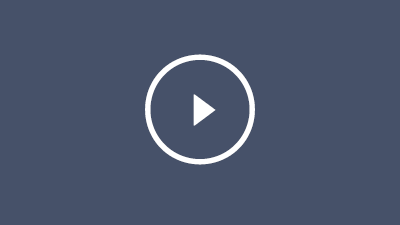
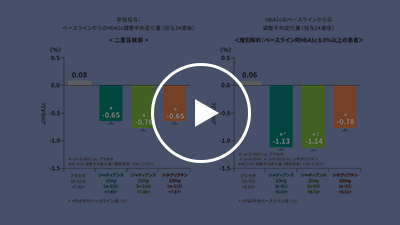
original

diff --git a/jardiance/04/index.html b/jardiance/04/index.html
@@ -4,7 +4,7 @@
 	<meta charset="UTF-8">
 	<meta http-equiv="X-UA-Compatible" content="IE=edge">
 	
-	<title>ポイント整理！ ジャディアンスの豊富なエビデンス#02</title>
+	<title>ジャディアンス</title>
 	<meta name="description" content="">
 	<meta name="keywords" content="">
 	
@@ -27,18 +27,14 @@
 	<header id="header">
 		<div id="mainVisual">
 			<h1><span>ポイント整理！</span><br>
-			ジャディアンスの豊富なエビデンス#02</h1>
-			<p class="read">糖尿病治療の目的は、合併症の発症・増悪を防ぎ、<br>
-			健康人と同様なQOLおよび寿命をもたらすことにあります。<br>
-			そのためには血糖、血圧、脂質、肥満などのリスク因子を<br>
-			包括的かつ早期から管理することが必要です。(※)<br>
-			しかし、2型糖尿病における厳格な血糖管理が心血管疾患や<br>
-			総死亡のリスクを軽減するかどうかは明確な結論が出ていませんでした。<br>
-			そんな中、2015年9月17日にジャディアンスが血糖降下薬で初となる<br>
-			心血管イベントリスクの減少を示したEMPA-REG OUTCOME&reg;が発表されました。<br>
-			今回は、これまでの血糖介入試験をを振り返りながら、<br>
-			EMPA-REG OUTCOME&reg;試験の概要をご紹介します。<br>
-			<span class="ftSS">※日本糖尿病学会(編)：科学的根拠に基づく糖尿病診療ガイドライン2013,p.21,151</span></p>
+			ジャディアンスの豊富なエビデンス</h1>
+			<p class="read">ジャディアンスは、優れたHbA1c低下作用をはじめ、<br>
+			数々のエビデンスが報告されています。<br>
+			2015年9月17日、欧州糖尿病学会でこのジャディアンスの新しいエビデンス、<br>
+			EMPA-REG OUTCOME&reg;試験が発表され、同時にNEJMで文献化されました。<br>
+			今回は、血糖降下薬で初となる心血管イベントリスクの<br>
+			減少を示したEMPA-REG OUTCOME&reg;試験の概要とともに、<br>
+			ジャディアンスの主なエビデンスをご紹介します。</p>
 			<nav id="gNav">
 				<div class="logo">
 					<ul><!--
@@ -48,10 +44,11 @@
 					--></ul>
 				</div>
 				<ul><!--
-					--><li class="sec01"><a href="#sec01">HbA1cと総死亡・心血管疾患による死亡との関連</a></li><!--
-					--><li class="sec02"><a href="#sec02">脳卒中や総死亡の抑制について</a></li><!--
-					--><li class="sec03"><a href="#sec03">主要評価項目（3P-MACE）</a></li><!--
-					--><li class="sec04"><a href="#sec04">優れたHbA1c低下作用</a></li><!--
+					--><li class="sec01"><a href="#sec01">単独投与におけるHbA1c低下作用</a></li><!--
+					--><li class="sec02"><a href="#sec02">EMPA-REG OUTCOME<sup>&reg;</sup></a></li><!--
+					--><li class="sec03"><a href="#sec03">経口血糖降下薬と併用時のHbA1c低下作用</a></li><!--
+					--><li class="sec04"><a href="#sec04">24時間にわたる高血糖状態の改善</a></li><!--
+					--><li class="sec05"><a href="#sec05">長期にわたるHbA1c低下作用</a></li><!--
 				--></ul>
 			</nav>
 		</div>
@@ -66,11 +63,12 @@
 		<!--  sec01  -->
 		<section id="sec01">
 			<p class="mv"><a href="movie01.html" class="colorbox-W640-H414-iframe" target="_blank"><img src="img/mv_thm01.png" alt=""></a><br>
-			◯◯分◯◯秒</p>
+			1分41秒</p>
 			<div class="blockO">
-				<h2 class="ttlA">HbA1cが上昇するにつれ、心血管疾患や総死亡は増加することが分かっています</h2>
-				<h3 class="sub">HbA1cと総死亡・心血管疾患による死亡との関連</h3>
-				<p>NIPPON DATA90参加者のうち、15年間のフォローアップ期間中の総死亡および心血管死をHbA1cで層別化して解析したところ、HbA1cと心血管死の多変量調整ハザード比は正の相関を示し、HbA1cが1％増加するごとに心血管死のハザード比は1.32（95％CI：1.12-1.56）と有意に増加しました。</p>
+				<h2 class="ttlA">「1日1回の経口投与により、<br>
+				優れたHbA1c低下作用を示すジャディアンス」</h2>
+				<h3 class="sub">単独投与におけるHbA1c低下作用</h3>
+				<p>現在、2型糖尿病治療には種々の血糖降下薬が用いられていますが、その中で最も新しい作用機序を有する薬剤がSGLT2阻害薬です。ジャディアンスは、そうした新しい薬剤ながら豊富なエビデンスを有し、さまざまな有効性・安全性のデータが得られています。</p>
 			</div>
 		</section>
 		<!-- //sec01 -->
@@ -78,12 +76,16 @@
 		<!--  sec02  -->
 		<section id="sec02">
 			<p class="mv">
+			<span class="icon"><img src="img/icon.png" alt=""></span>
 			<a href="movie02.html" class="colorbox-W640-H414-iframe" target="_blank"><img src="img/mv_thm02.png" alt=""></a><br>
-			◯◯分◯◯秒</p>
+			1分22秒</p>
 			<div class="blockO">
-				<h2 class="ttlA">HbA1cを下げれば心血管疾患や総死亡を減らせるのでしょうか</h2>
-				<h3 class="sub">ACCORD試験では、心血管イベント発生リスクを有する2型糖尿病患者において、厳格な血糖コントロールの大血管障害抑制効果は認められませんでした</h3>
-				<p>ACCORD試験を含む５つの大規模RCTに参加した<br>33,040例のデータを用いてメタ解析した結果、<br>強化療法は通常治療に比して冠動脈疾患を抑制しましたが、<br>脳卒中や総死亡の抑制については有意差がありませんでした。(※)<br><span class="ftS">※Ray KK et al.:Lancet.2009;373(9677):1765-72.</span></p>
+				<h2 class="ttlA">「2015年9月17日、ジャディアンスに<br>
+				血糖降下薬として初となる、<br>
+				心血管イベント減少のエビデンスが加わった」</h2>
+				<h3 class="sub">EMPA-REG OUTCOME®</h3>
+				<p>2015年9月17日、ジャディアンスに新しいエビデンス「EMPA-REG<br>
+				OUTCOME®試験」が加わりました。本試験では心血管リスクの高い2型糖尿病患者を対象に、主要複合心血管イベントの初回発現までの期間を指標として標準治療と比較した時のジャディアンスの長期心血管安全性が検討されました。</p>
 			</div>
 		</section>
 		<!-- //sec02 -->
@@ -91,11 +93,12 @@
 		<!--  sec03  -->
 		<section id="sec03">
 			<p class="mv"><a href="movie03.html" class="colorbox-W640-H414-iframe" target="_blank"><img src="img/mv_thm03.png" alt=""></a><br>
-			◯◯分◯◯秒</p>
+			1分50秒</p>
 			<div class="blockO">
-				<h2 class="ttlA">ベースラインですでに標準治療を受けていた患者にジャディアンスを投与したところ、<br>3P-MACEが14％減少</h2>
-				<h3 class="sub">主要評価項目（3P-MACE）</h3>
-				<p>ジャディアンスは心血管アウトカムに特化した試験において、心血管リスクを減少させた最初の血糖降下薬であることが確認されたのです。</p>
+				<h2 class="ttlA">「標準治療に上乗せした際の<br>
+				ジャディアンス有効性とは？」</h2>
+				<h3 class="sub">経口血糖降下薬と併用時のHbA1c低下作用</h3>
+				<p>標準治療に用いられる種々の経口血糖降下薬との併用に関しても、ジャディアンスは国内第Ⅲ相併用療法長期投与試験で検討されています。既存の経口血糖降下薬とジャディアンス10mgを併用した結果、52週後のベースラインからのHbA1c調整平均変化量は－0.81～－1.00％でした。</p>
 			</div>
 		</section>
 		<!-- //sec03 -->
@@ -103,20 +106,37 @@
 		<!--  sec04  -->
 		<section id="sec04">
 			<p class="mv"><a href="movie04.html" class="colorbox-W640-H414-iframe" target="_blank"><img src="img/mv_thm04.png" alt=""></a><br>
-			◯◯分◯◯秒</p>
+			1分18秒</p>
 			<div class="blockO">
-				<h2 class="ttlA">ジャディアンスは標準治療へ上乗せした場合の有効性・安全性が検討されている</h2>
-				<h3 class="sub">ジャディアンスは1日1回の経口投与により、<br>優れたHbA1c低下作用を示します</h3>
-				<p>EMPA-REG OUTCOME&reg;試験は標準治療にジャディアンスを上乗せした結果、心血管イベントリスクの有意な減少を認めましたが、こうした標準治療に用いられる種々の経口血糖降下薬との併用に関しても、ジャディアンスは国内第Ⅲ相併用療法長期投与試験で検討しています。</p>
+				<h2 class="ttlA">「空腹時だけでなく、食後の血糖値を含め<br>
+				低24時間にわたって高血糖状態を改善する<br>
+				ジャディアンス」</h2>
+				<h3 class="sub">24時間にわたる高血糖状態の改善</h3>
+				<p>心血管イベント発症を阻止するためには、血糖だけでなく、血圧、脂質などを含め、包括的に管理することが大切です。また、インスリン抵抗性や食後高血糖なども心血管イベントに関連していることがわかっています*。ジャディアンスは空腹時だけでなく、食後の血糖値を含め低下させ、24時間にわたって高血糖状態を改善できることが示されています。<br>
+				*科学的根拠に基づく糖尿病診療ガイドライン2013　p.153</p>
 			</div>
 		</section>
 		<!-- //sec04 -->
 		
 		<!--  sec05  -->
-		<section id="sec05">	
-			<p>今回は、これまでの血糖介入試験を振り返りながら、EMPA-REG OUTCOME&reg;試験の結果や、ジャディアンスが有する豊富なエビデンスの一部をご紹介しました。次回はFDAが出した新規糖尿病治療薬の心血管イベント発生リスク評価のガイダンスをご紹介しながら、EMPA-REG OUTCOME&reg;試験を含むジャディアンスの豊富なエビデンスをご紹介します。是非ご期待ください。</p>
+		<section id="sec05">
+			<p class="mv"><a href="movie05.html" class="colorbox-W640-H414-iframe" target="_blank"><img src="img/mv_thm05.png" alt=""></a><br>
+			56秒</p>
+			<div class="blockO">
+				<h2 class="ttlA">「ジャディアンスの、長期にわたる<br>
+				HbA1c低下作用とは？」</h2>
+				<h3 class="sub">長期にわたるHbA1c低下作用</h3>
+				<p>糖尿病治療の目標は、健康な人と変わらないQOL、そして寿命の確保にあります*。そのためには、長期間、良好な血糖コントロールを維持し、心血管イベントを含めた糖尿病合併症を抑制することが求められます。ジャディアンスは、長期にわたるHbA1c低下作用も報告されています。<br>
+				*糖尿病治療ガイド2014-2015　p.24</p>
+			</div>
 		</section>
 		<!-- //sec05 -->
+		
+		<!--  sec06  -->
+		<section id="sec06">
+			<p>EMPA-REG OUTCOME&reg;試験の結果を含め、ジャディアンスが有する豊富なエビデンスの一部をご紹介しました。次回も引き続き、ジャディアンスの豊富なエビデンスをご紹介します。是非ご期待ください。</p>
+		</section>
+		<!-- //sec06 -->
 		
 		<p class="txtR"><a href="http://www.bij-kusuri.jp/leaflet/attach/pdf/jad_t10_pi.pdf" target="_blank">添付文書を見る</a></p>
 		

diff --git a/jardiance/04/css/common.css b/jardiance/04/css/common.css
@@ -1,1 +1,1 @@
-@charset "UTF-8";body,html{width:100%}dl,ol,ul{line-height:0}address,em,strong{font-style:normal}#cboxLoadedContent,#cboxLoadingOverlay,.cboxIframe{background:url(../img/dummy.gif)}#cboxCurrent,#cboxTitle{top:-22px;position:absolute}a,abbr,acronym,address,applet,article,aside,audio,b,big,blockquote,body,canvas,caption,center,cite,code,dd,del,details,dfn,div,dl,dt,em,embed,fieldset,figcaption,figure,footer,form,h1,h2,h3,h4,h5,h6,header,hgroup,html,i,iframe,img,ins,kbd,label,legend,li,mark,menu,nav,object,ol,output,p,pre,q,ruby,s,samp,section,small,span,strike,strong,sub,summary,sup,table,tbody,td,tfoot,th,thead,time,tr,tt,u,ul,var,video{padding:0;margin:0}html{overflow-y:scroll;font-size:62.5%}body{font-family:"Noto Sans Japanese","メイリオ","ヒラギノ角ゴ Pro W3","Hiragino Kaku Gothic Pro",Meiryo,"ＭＳ Ｐゴシック",sans-serif;font-size:180%;background-color:#fff;color:#252424;text-align:center;-webkit-text-size-adjust:100%}ol,ul{list-style:none}dd,dt,h1,h2,h3,h4,h5,h6,li,p,td,th{font-size:100%;line-height:1.85}table{border-collapse:separate;border-spacing:0;empty-cells:show}caption,th{text-align:left}em,strong{font-weight:700}iframe,img{vertical-align:bottom;border:0}sub,sup{font-size:75%;line-height:0;position:relative;vertical-align:baseline}sup{top:-.5em}a{text-decoration:underline;background:0 0;cursor:pointer;outline:0}a:hover{text-decoration:none}code,kbd,pre,samp{font-family:monospace,serif;font-size:1em}pre{white-space:pre-wrap}q{quotes:"\201C" "\201D" "\2018" "\2019"}article,aside,details,figcaption,figure,footer,header,hgroup,main,nav,section,summary{display:block}audio,canvas,video{display:inline-block}[hidden],template{display:none}audio:not([controls]){display:none;height:0}dfn{font-style:italic}mark{background:#ff0;color:#000}svg:not(:root){overflow:hidden}fieldset{border:1px solid silver;margin:0 2px;padding:.35em .625em .75em}legend{border:0}button,input,select,textarea{font-family:inherit;font-size:100%}small{font-size:12px}.imageLeft{float:left;margin:.4em 30px 5px 0}.imageRight{float:right;margin:.4em 0 5px 30px}.txtC{text-align:center	!important}.txtR{text-align:right	!important}.txtL{text-align:left		!important}.vAT,.vAT>*{vertical-align:top	!important}.vAM,.vAM>*{vertical-align:middle	!important}.vAB,.vAB>*{vertical-align:bottom	!important}.ftSS{font-size:10px!important}.ftS{font-size:12px!important}.ftL{font-size:18px!important}.margReset{margin:0!important}.margL00{margin-left:0!important}.margR00{margin-right:0!important}.margT00{margin-top:0!important}.margB00{margin-bottom:0!important}.margL05{margin-left:5px!important}.margR05{margin-right:5px!important}.margT05{margin-top:5px!important}.margB05{margin-bottom:5px!important}.margL10{margin-left:10px!important}.margR10{margin-right:10px!important}.margT10{margin-top:10px!important}.margB10{margin-bottom:10px!important}.margL15{margin-left:15px!important}.margR15{margin-right:15px!important}.margT15{margin-top:15px!important}.margB15{margin-bottom:15px!important}.margL20{margin-left:20px!important}.margR20{margin-right:20px!important}.margT20{margin-top:20px!important}.margB20{margin-bottom:20px!important}.margL25{margin-left:25px!important}.margR25{margin-right:25px!important}.margT25{margin-top:25px!important}.margB25{margin-bottom:25px!important}.margL30{margin-left:30px!important}.margR30{margin-right:30px!important}.margT30{margin-top:30px!important}.margB30{margin-bottom:30px!important}.margB40{margin-bottom:40px!important}.margB45{margin-bottom:45px!important}.margB50{margin-bottom:50px!important}.margB60{margin-bottom:60px!important}.margB70{margin-bottom:70px!important}.margB80{margin-bottom:80px!important}.margB90{margin-bottom:90px!important}.margB100{margin-bottom:100px!important}div.clear{clear:both;height:0;width:0;font-size:0;line-height:0}.clearfix:after{content:"";display:block;clear:both}#cboxOverlay,#cboxWrapper,#colorbox{position:absolute;top:0;left:0;z-index:9999;overflow:hidden;outline:0}#cboxOverlay{position:fixed;width:100%;height:100%;background:#000}#cboxBottomLeft,#cboxMiddleLeft{clear:left}#cboxLoadedContent{overflow:auto;padding:1px}#cboxTitle{margin:0;left:0;color:#000;text-indent:-8000px;font-size:1px}#cboxLoadingGraphic,#cboxLoadingOverlay{position:absolute;top:0;left:0;width:100%;height:100%}.cboxPhoto{float:left;margin:auto;border:0;display:block}.cboxIframe{width:100%;height:100%;display:block;border:0}#cboxContent{position:relative;margin-top:37px;overflow:visible}#cboxError{padding:50px;border:1px solid #ccc}#cboxLoadingGraphic{background:url(../img/loading.gif) center center no-repeat}#cboxCurrent{right:205px;text-indent:-9999px}#cboxClose,#cboxNext,#cboxPrevious,#cboxSlideshow{cursor:pointer;text-indent:-9999px;width:20px;height:20px;position:absolute;top:-20px}#cboxPrevious{background-position:0 0;right:44px}#cboxPrevious:hover{background-position:0 -25px}#cboxNext{background-position:-25px 0;right:22px}#cboxNext:hover{background-position:-25px -25px}#cboxClose{background:url(../img/sprite.png) -531px -40px no-repeat;right:0;border:0;top:-37px;width:31px;height:30px;outline:0}#cboxClose:hover{background-position:-500px -40px}.cboxSlideshow_off #cboxPrevious,.cboxSlideshow_on #cboxPrevious{right:66px}.cboxSlideshow_on #cboxSlideshow{background-position:-75px -25px;right:44px}.cboxSlideshow_on #cboxSlideshow:hover{background-position:-100px -25px}.cboxSlideshow_off #cboxSlideshow{background-position:-100px 0;right:44px}.cboxSlideshow_off #cboxSlideshow:hover{background-position:-75px -25px}
+@charset "UTF-8";body,html{width:100%}dl,ol,ul{line-height:0}address,em,strong{font-style:normal}#cboxLoadedContent,#cboxLoadingOverlay,.cboxIframe{background:url(../img/dummy.gif)}#cboxCurrent,#cboxTitle{top:-22px;position:absolute}a,abbr,acronym,address,applet,article,aside,audio,b,big,blockquote,body,canvas,caption,center,cite,code,dd,del,details,dfn,div,dl,dt,em,embed,fieldset,figcaption,figure,footer,form,h1,h2,h3,h4,h5,h6,header,hgroup,html,i,iframe,img,ins,kbd,label,legend,li,mark,menu,nav,object,ol,output,p,pre,q,ruby,s,samp,section,small,span,strike,strong,sub,summary,sup,table,tbody,td,tfoot,th,thead,time,tr,tt,u,ul,var,video{padding:0;margin:0}html{overflow-y:scroll;font-size:62.5%}body{font-family:"Noto Sans Japanese","メイリオ","ヒラギノ角ゴ Pro W3","Hiragino Kaku Gothic Pro",Meiryo,"ＭＳ Ｐゴシック",sans-serif;font-size:180%;background-color:#fff;color:#252424;text-align:center;-webkit-text-size-adjust:100%}ol,ul{list-style:none}dd,dt,h1,h2,h3,h4,h5,h6,li,p,td,th{font-size:100%;line-height:1.85}table{border-collapse:separate;border-spacing:0;empty-cells:show}caption,th{text-align:left}em,strong{font-weight:700}iframe,img{vertical-align:bottom;border:0}sub,sup{font-size:75%;line-height:0;position:relative;vertical-align:baseline}sup{top:-.5em}a{text-decoration:underline;background:0 0;cursor:pointer;outline:0}a:hover{text-decoration:none}code,kbd,pre,samp{font-family:monospace,serif;font-size:1em}pre{white-space:pre-wrap}q{quotes:"\201C" "\201D" "\2018" "\2019"}article,aside,details,figcaption,figure,footer,header,hgroup,main,nav,section,summary{display:block}audio,canvas,video{display:inline-block}[hidden],template{display:none}audio:not([controls]){display:none;height:0}dfn{font-style:italic}mark{background:#ff0;color:#000}svg:not(:root){overflow:hidden}fieldset{border:1px solid silver;margin:0 2px;padding:.35em .625em .75em}legend{border:0}button,input,select,textarea{font-family:inherit;font-size:100%}small{font-size:12px}.imageLeft{float:left;margin:.4em 30px 5px 0}.imageRight{float:right;margin:.4em 0 5px 30px}.txtC{text-align:center	!important}.txtR{text-align:right	!important}.txtL{text-align:left		!important}.vAT,.vAT>*{vertical-align:top	!important}.vAM,.vAM>*{vertical-align:middle	!important}.vAB,.vAB>*{vertical-align:bottom	!important}.ftS{font-size:12px!important}.ftL{font-size:18px!important}.margReset{margin:0!important}.margL00{margin-left:0!important}.margR00{margin-right:0!important}.margT00{margin-top:0!important}.margB00{margin-bottom:0!important}.margL05{margin-left:5px!important}.margR05{margin-right:5px!important}.margT05{margin-top:5px!important}.margB05{margin-bottom:5px!important}.margL10{margin-left:10px!important}.margR10{margin-right:10px!important}.margT10{margin-top:10px!important}.margB10{margin-bottom:10px!important}.margL15{margin-left:15px!important}.margR15{margin-right:15px!important}.margT15{margin-top:15px!important}.margB15{margin-bottom:15px!important}.margL20{margin-left:20px!important}.margR20{margin-right:20px!important}.margT20{margin-top:20px!important}.margB20{margin-bottom:20px!important}.margL25{margin-left:25px!important}.margR25{margin-right:25px!important}.margT25{margin-top:25px!important}.margB25{margin-bottom:25px!important}.margL30{margin-left:30px!important}.margR30{margin-right:30px!important}.margT30{margin-top:30px!important}.margB30{margin-bottom:30px!important}.margB40{margin-bottom:40px!important}.margB45{margin-bottom:45px!important}.margB50{margin-bottom:50px!important}.margB60{margin-bottom:60px!important}.margB70{margin-bottom:70px!important}.margB80{margin-bottom:80px!important}.margB90{margin-bottom:90px!important}.margB100{margin-bottom:100px!important}div.clear{clear:both;height:0;width:0;font-size:0;line-height:0}.clearfix:after{content:"";display:block;clear:both}#cboxOverlay,#cboxWrapper,#colorbox{position:absolute;top:0;left:0;z-index:9999;overflow:hidden;outline:0}#cboxOverlay{position:fixed;width:100%;height:100%;background:#000}#cboxBottomLeft,#cboxMiddleLeft{clear:left}#cboxLoadedContent{overflow:auto;padding:1px}#cboxTitle{margin:0;left:0;color:#000;text-indent:-8000px;font-size:1px}#cboxLoadingGraphic,#cboxLoadingOverlay{position:absolute;top:0;left:0;width:100%;height:100%}.cboxPhoto{float:left;margin:auto;border:0;display:block}.cboxIframe{width:100%;height:100%;display:block;border:0}#cboxContent{position:relative;margin-top:37px;overflow:visible}#cboxError{padding:50px;border:1px solid #ccc}#cboxLoadingGraphic{background:url(../img/loading.gif) center center no-repeat}#cboxCurrent{right:205px;text-indent:-9999px}#cboxClose,#cboxNext,#cboxPrevious,#cboxSlideshow{cursor:pointer;text-indent:-9999px;width:20px;height:20px;position:absolute;top:-20px}#cboxPrevious{background-position:0 0;right:44px}#cboxPrevious:hover{background-position:0 -25px}#cboxNext{background-position:-25px 0;right:22px}#cboxNext:hover{background-position:-25px -25px}#cboxClose{background:url(../img/sprite.png) -531px -40px no-repeat;right:0;border:0;top:-37px;width:31px;height:30px;outline:0}#cboxClose:hover{background-position:-500px -40px}.cboxSlideshow_off #cboxPrevious,.cboxSlideshow_on #cboxPrevious{right:66px}.cboxSlideshow_on #cboxSlideshow{background-position:-75px -25px;right:44px}.cboxSlideshow_on #cboxSlideshow:hover{background-position:-100px -25px}.cboxSlideshow_off #cboxSlideshow{background-position:-100px 0;right:44px}.cboxSlideshow_off #cboxSlideshow:hover{background-position:-75px -25px}

diff --git a/jardiance/04/movie01.html b/jardiance/04/movie01.html
@@ -4,7 +4,7 @@
 	<meta charset="UTF-8">
 	<meta http-equiv="X-UA-Compatible" content="IE=edge">
 	
-	<title>ポイント整理！ ジャディアンスの豊富なエビデンス#02</title>
+	<title>ポイント整理！ ジャディアンスとCVアウトカム</title>
 	<meta name="description" content="">
 	<meta name="keywords" content="">
 	
@@ -17,7 +17,7 @@
 <body>
 
 <div id="wrapper">
-	<!-- 動画タグを埋め込んでください -->
+	<script type="text/javascript" charset="utf-8" src="//www2.uliza.jp/IF/RequestMovie.aspx?clientid=917&episodeid=BIDM_point_01"></script>
 </div>
 
 

diff --git a/jardiance/04/movie02.html b/jardiance/04/movie02.html
@@ -4,7 +4,7 @@
 	<meta charset="UTF-8">
 	<meta http-equiv="X-UA-Compatible" content="IE=edge">
 	
-	<title>ポイント整理！ ジャディアンスの豊富なエビデンス#02</title>
+	<title>ポイント整理！ ジャディアンスとCVアウトカム</title>
 	<meta name="description" content="">
 	<meta name="keywords" content="">
 	
@@ -17,7 +17,7 @@
 <body>
 
 <div id="wrapper">
-	<!-- 動画タグを埋め込んでください -->
+	<script type="text/javascript" charset="utf-8" src="//www2.uliza.jp/IF/RequestMovie.aspx?clientid=917&episodeid=BIDM_point_02"></script>
 </div>
 
 

diff --git a/jardiance/04/movie03.html b/jardiance/04/movie03.html
@@ -4,7 +4,7 @@
 	<meta charset="UTF-8">
 	<meta http-equiv="X-UA-Compatible" content="IE=edge">
 	
-	<title>ポイント整理！ ジャディアンスの豊富なエビデンス#02</title>
+	<title>ポイント整理！ ジャディアンスとCVアウトカム</title>
 	<meta name="description" content="">
 	<meta name="keywords" content="">
 	
@@ -17,7 +17,7 @@
 <body>
 
 <div id="wrapper">
-	<!-- 動画タグを埋め込んでください -->
+	<script type="text/javascript" charset="utf-8" src="//www2.uliza.jp/IF/RequestMovie.aspx?clientid=917&episodeid=BIDM_point_03"></script>
 </div>
 
 

diff --git a/jardiance/04/movie04.html b/jardiance/04/movie04.html
@@ -4,7 +4,7 @@
 	<meta charset="UTF-8">
 	<meta http-equiv="X-UA-Compatible" content="IE=edge">
 	
-	<title>ポイント整理！ ジャディアンスの豊富なエビデンス#02</title>
+	<title>ポイント整理！ ジャディアンスとCVアウトカム</title>
 	<meta name="description" content="">
 	<meta name="keywords" content="">
 	
@@ -17,7 +17,7 @@
 <body>
 
 <div id="wrapper">
-	<!-- 動画タグを埋め込んでください -->
+	<script type="text/javascript" charset="utf-8" src="//www2.uliza.jp/IF/RequestMovie.aspx?clientid=917&episodeid=BIDM_point_04"></script>
 </div>
 
 

diff --git a/jardiance/04/movie05.html b/jardiance/04/movie05.html
@@ -4,7 +4,7 @@
 	<meta charset="UTF-8">
 	<meta http-equiv="X-UA-Compatible" content="IE=edge">
 	
-	<title>ポイント整理！ ジャディアンスの豊富なエビデンス#02</title>
+	<title>ポイント整理！ ジャディアンスとCVアウトカム</title>
 	<meta name="description" content="">
 	<meta name="keywords" content="">
 	
@@ -17,7 +17,7 @@
 <body>
 
 <div id="wrapper">
-	<!-- 動画タグを埋め込んでください -->
+	<script type="text/javascript" charset="utf-8" src="//www2.uliza.jp/IF/RequestMovie.aspx?clientid=917&episodeid=BIDM_point_05"></script>
 </div>
 
 
